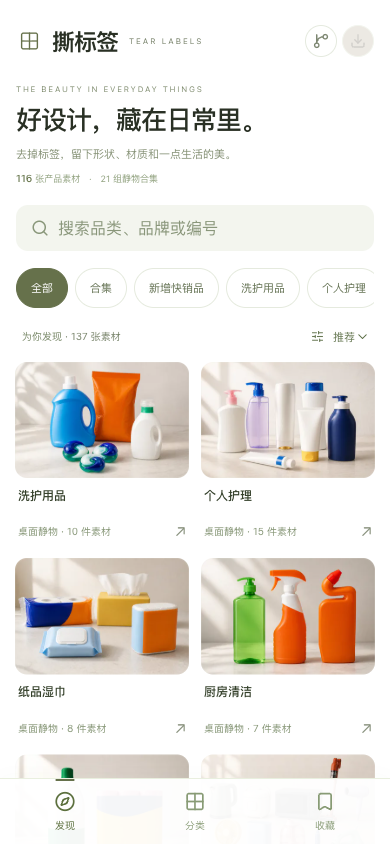
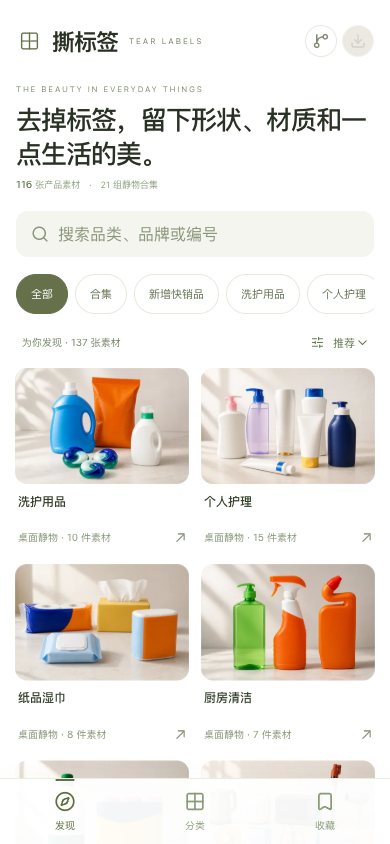
Update the home headline and remove duplicate description

Changed region(s): [[0.0308, 0.1232, 0.9846, 0.9242], [0.6769, 0.1232, 0.9231, 0.154], [0.6154, 0.3081, 0.7385, 0.3697]]

diff --git a/app/page.tsx b/app/page.tsx
@@ -959,8 +959,9 @@ export default function Home() {
                   ? '把喜欢的日常，留下。'
                   : isCollectionView
                     ? '一起看，换一种灵感。'
-                    : '好设计，藏在日常里。'}
+                    : '去掉标签，留下形状、材质和一点生活的美。'}
             </h1>
+            {(directoryOpen || isFavoritesView || isCollectionView) && (
             <p className="wander-description">
               {directoryOpen
                 ? '按品类和专题，找到合适的素材。'
@@ -968,6 +969,7 @@ export default function Home() {
                   ? '你的私人素材夹，下次灵感从这里开始。'
                   : '去掉标签，留下形状、材质和一点生活的美。'}
             </p>
+            )}
           </div>
           <p className="wander-inventory">
             <strong>{products.length}</strong> 张产品素材 <span>·</span>{' '}
@@ -1317,7 +1319,7 @@ export default function Home() {
 
       <footer className="wander-footer">
         <span>
-          撕标签 <small>v1.1.3</small>
+          撕标签 <small>v1.1.4</small>
         </span>
         <span>无品牌素材 · 原图 PNG</span>
         <a

diff --git a/github-pages/index.html b/github-pages/index.html
@@ -12,7 +12,7 @@
       property="og:description"
       content="以 Wander 分类标签与瀑布流浏览 116 个无品牌日用品 PNG 与 21 组桌面静物合集。"
     />
-    <meta name="application-version" content="1.1.3" />
+    <meta name="application-version" content="1.1.4" />
     <link rel="icon" href="./favicon.svg" />
     <script
       defer

diff --git a/README.en.md b/README.en.md
@@ -2,7 +2,7 @@
 
 # Tear Labels · Wander
 
-A catalogue of 116 unbranded product PNGs and 21 still-life collections, including 40 newer consumer goods. Version **1.1.3** uses a Wander interface: olive category pills, a masonry feed, and Discover / Categories / Favorites navigation. Collections appear first. Images keep their intrinsic ratio; lists lazy-load thumbnails, details upgrade after decoding, and downloads retain original PNGs.
+A catalogue of 116 unbranded product PNGs and 21 still-life collections, including 40 newer consumer goods. Version **1.1.4** uses a Wander interface: olive category pills, a masonry feed, and Discover / Categories / Favorites navigation. Collections appear first. Images keep their intrinsic ratio; lists lazy-load thumbnails, details upgrade after decoding, and downloads retain original PNGs.
 
 [Live demo](https://daily-necessities-library.xiaosang.cc/) · [Source](https://github.com/holynova/daily-necessities-library) · [Pages mirror](https://holynova.github.io/daily-necessities-library/)
 

diff --git a/README.md b/README.md
@@ -4,7 +4,7 @@
 
 # 撕标签 · Wander
 
-116 张去标签产品 PNG 与 21 组桌面静物合集，包含 40 张新增快销品。Wander 界面以橄榄绿分类标签、双列瀑布流和底部导航浏览日常素材，首页合集优先，图片按原始比例显示；列表懒加载缩略图，详情解码后切换高清 WebP，下载保留原图。**当前版本：1.1.3。**
+116 张去标签产品 PNG 与 21 组桌面静物合集，包含 40 张新增快销品。Wander 界面以橄榄绿分类标签、双列瀑布流和底部导航浏览日常素材，首页合集优先，图片按原始比例显示；列表懒加载缩略图，详情解码后切换高清 WebP，下载保留原图。**当前版本：1.1.4。**
 
 [在线体验](https://daily-necessities-library.xiaosang.cc/) · [GitHub 源码](https://github.com/holynova/daily-necessities-library) · [备用镜像](https://holynova.github.io/daily-necessities-library/) · [更多作品](https://xiaosang.cc/)
 
